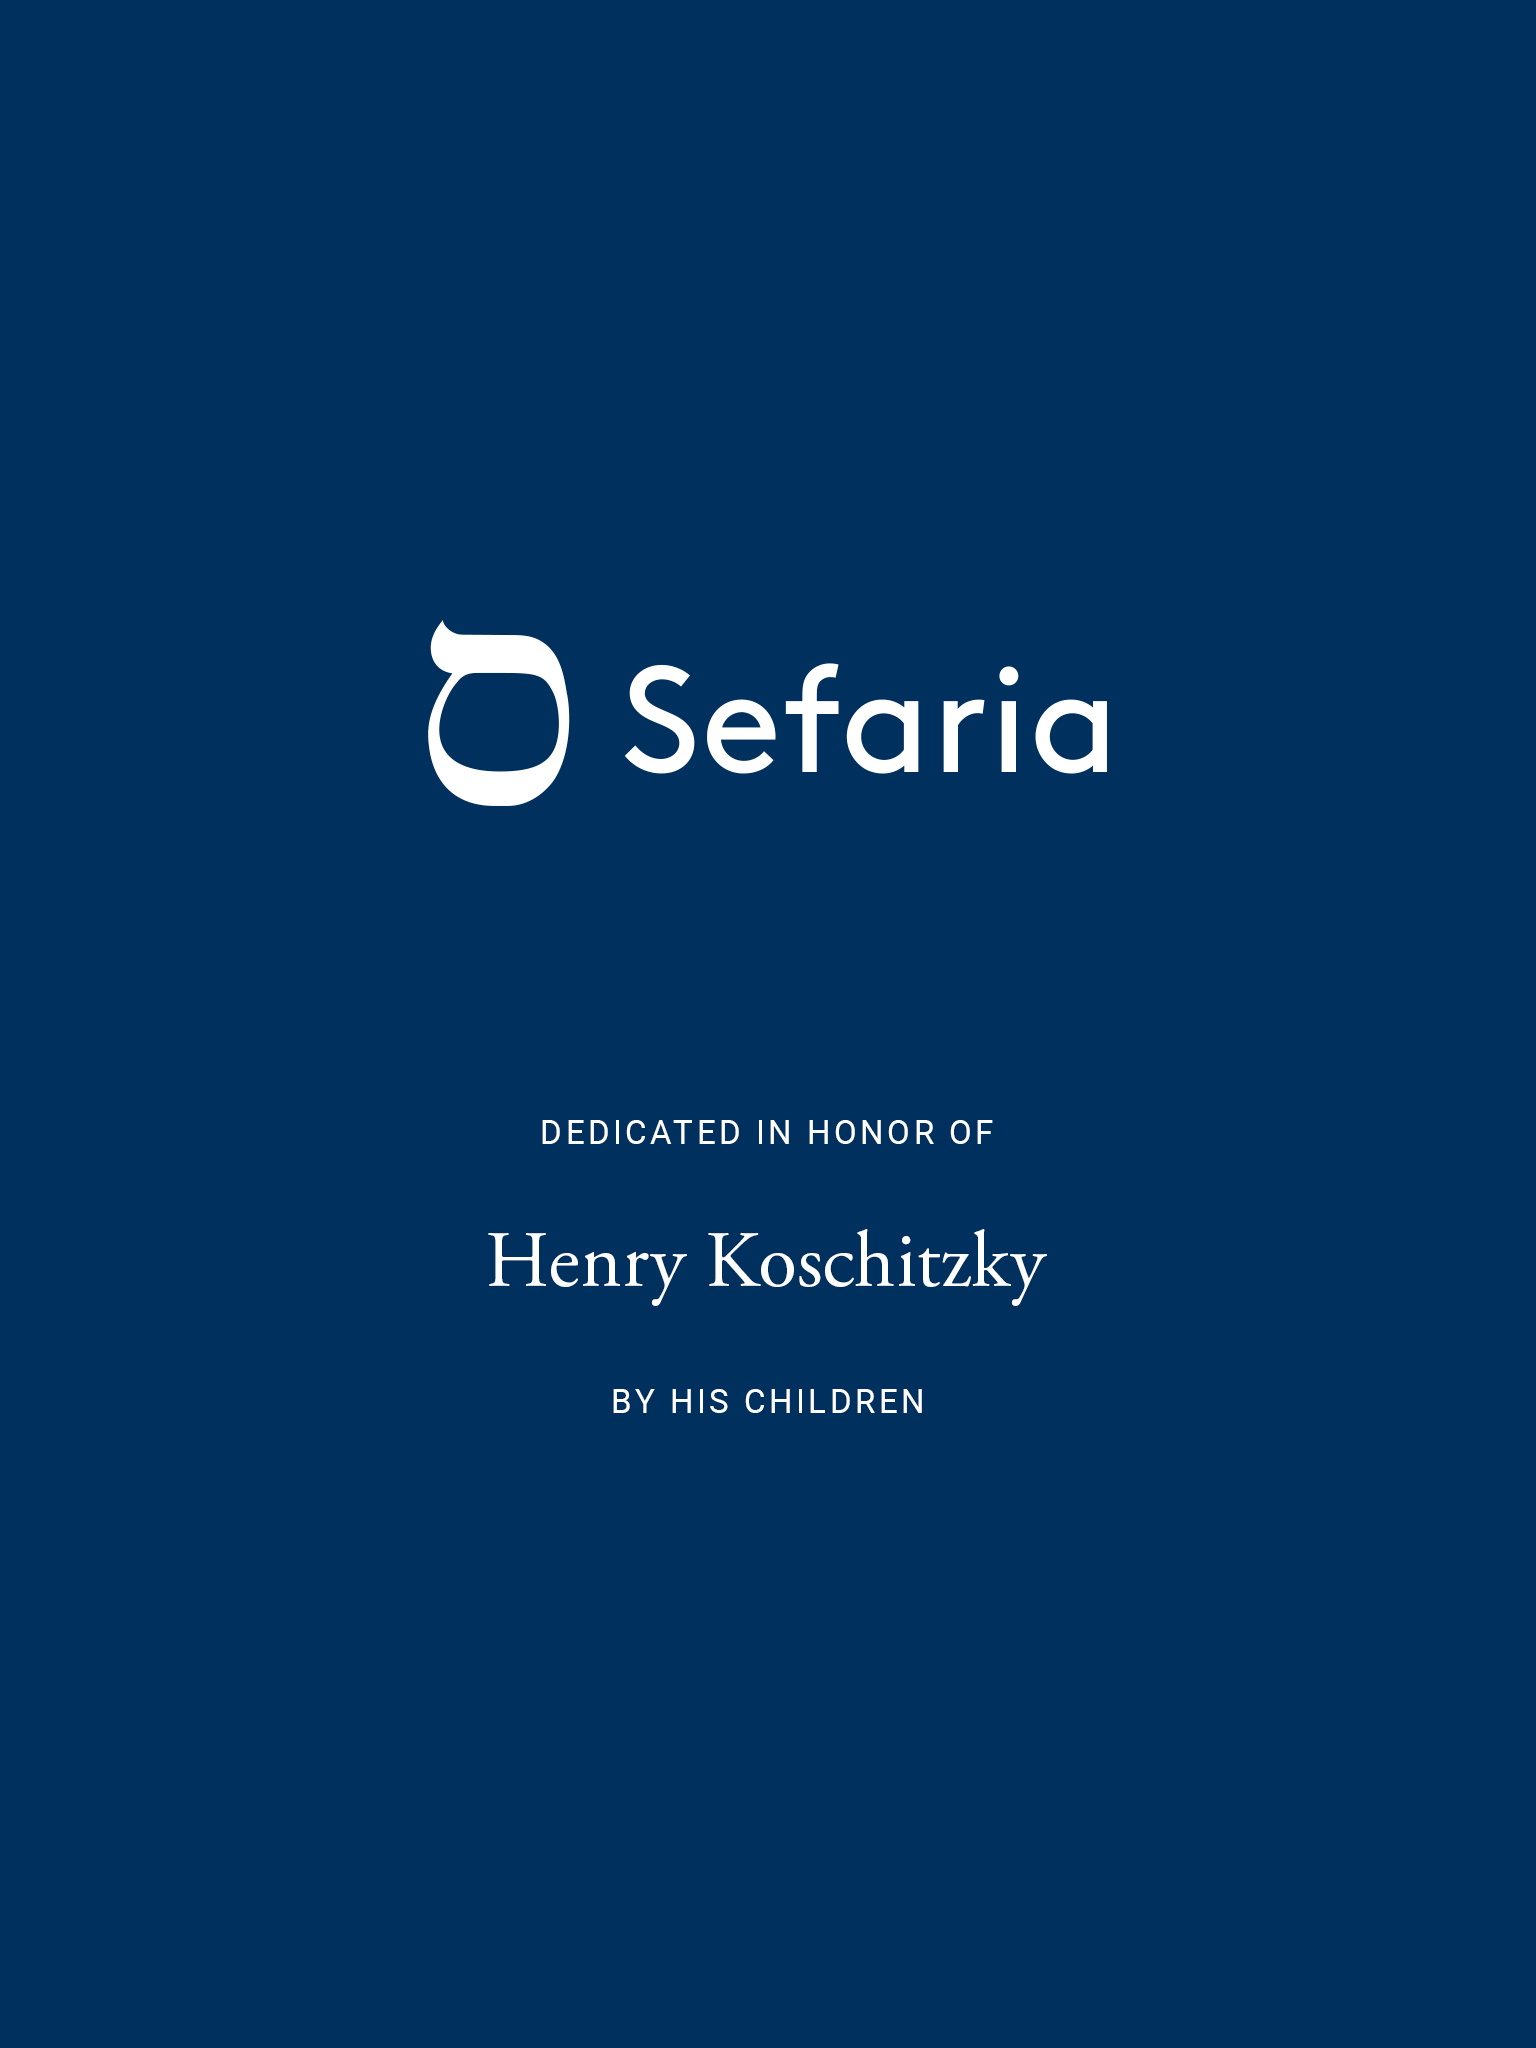
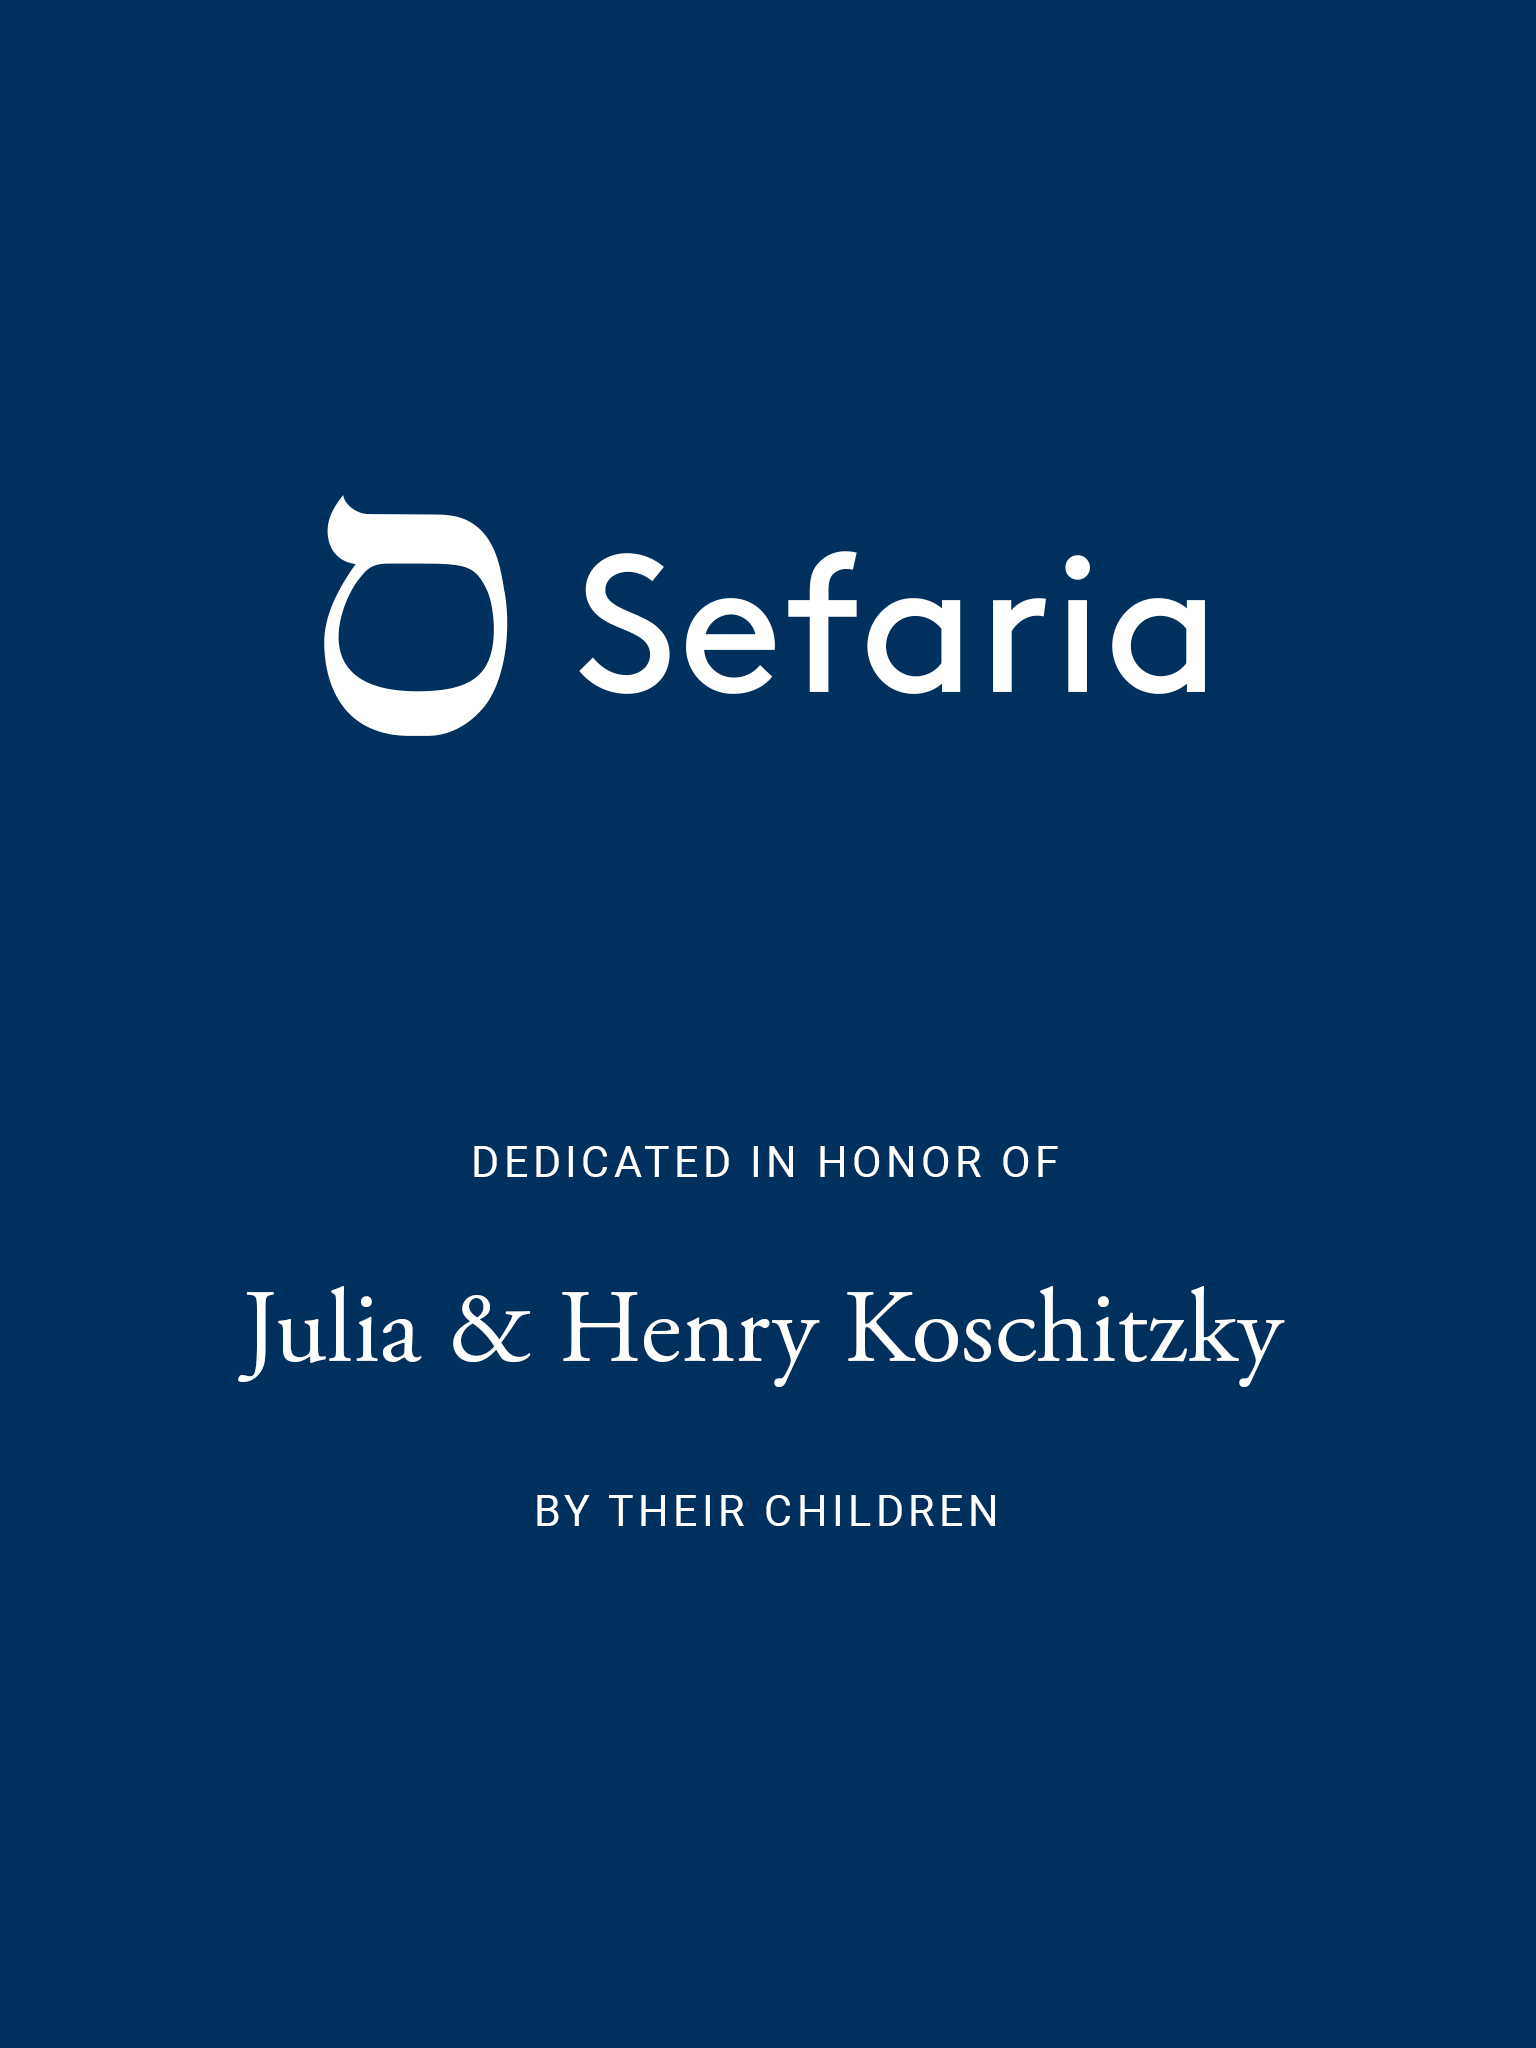
new splash screens

Changed region(s): [[0.1562, 0.5312, 0.8438, 0.6875], [0.1875, 0.25, 0.7812, 0.4062], [0.3438, 0.7188, 0.6562, 0.75]]

diff --git a/LocalizedStrings.js b/LocalizedStrings.js
@@ -13,8 +13,8 @@ let strings = new LocalizedStrings({
     settings: "Settings",
     about: "About",
     feedback: "Feedback",
-    dedicatedIOS: "Dedicated in honor of Henry Koschitzky by his children",
-    dedicatedAndroid: "Dedicated in honor of Julia Koschitzky by her loving husband and children",
+    dedicatedIOS: "Dedicated in honor of Julia & Henry Koschitzky by their children",
+    dedicatedAndroid: "Dedicated in honor of Julia & Henry Koschitzky by their children",
     cancel: "Cancel",
     open: "Open",
     tryAgain: "Try Again",
@@ -36,8 +36,6 @@ let strings = new LocalizedStrings({
     connectToVersionsMessage: "Connect to the internet to read other versions.",
     menuLanguage: "MENU LANGUAGE",
     defaultTextLanguage: "DEFAULT TEXT LANGUAGE",
-    english: "ENGLISH",
-    hebrew: "HEBREW",
     bilingual: "BILINGUAL",
     offlineAccess: "OFFLINE ACCESS",
     downloadInProgress: "Download in progress",
@@ -138,8 +136,8 @@ let strings = new LocalizedStrings({
     settings: "הגדרות",
     about: "אודות",
     feedback: "משוב",
-    dedicatedIOS: "נתרם לכבודו של הנרי קושיצקי על ידי ילדיו",
-    dedicatedAndroid: "נתרם לכבודה של יוליה קושיצקי על ידי בעלה וילדיה האוהבים",
+    dedicatedIOS: "נתרם לכבודם של ג'וליה והנרי קושיצקי על ידי ילדיהם",
+    dedicatedAndroid: "נתרם לכבודם של ג'וליה והנרי קושיצקי על ידי ילדיהם",
     cancel: "בטל",
     open: "פתח",
     tryAgain: "נסה שוב",
@@ -214,8 +212,6 @@ let strings = new LocalizedStrings({
     on: "פעיל",
     off: "כבוי",
     filterByText: "סינון לפי טקסט",
-    english: "אנגלית",
-    hebrew: "עברית",
     yiddish: "יידיש",
     finnish: "פינית",
     portuguese: "פורטוגזית",
